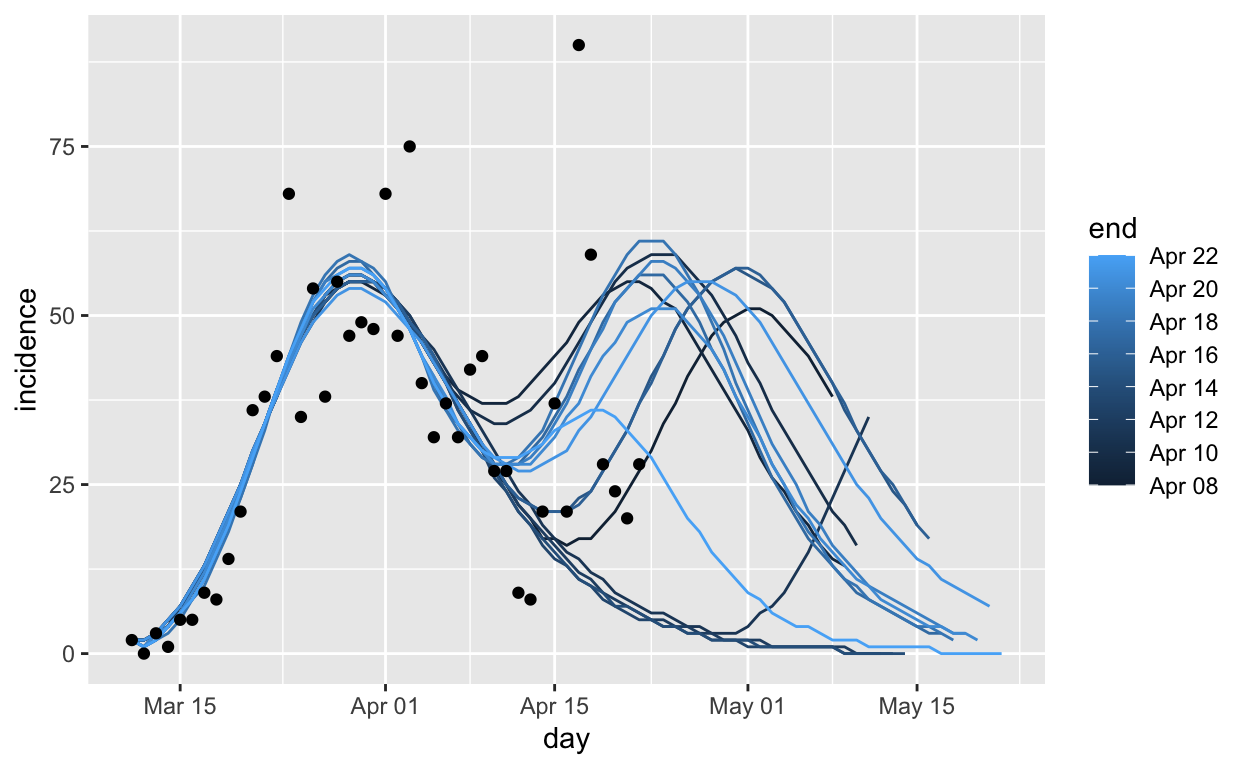
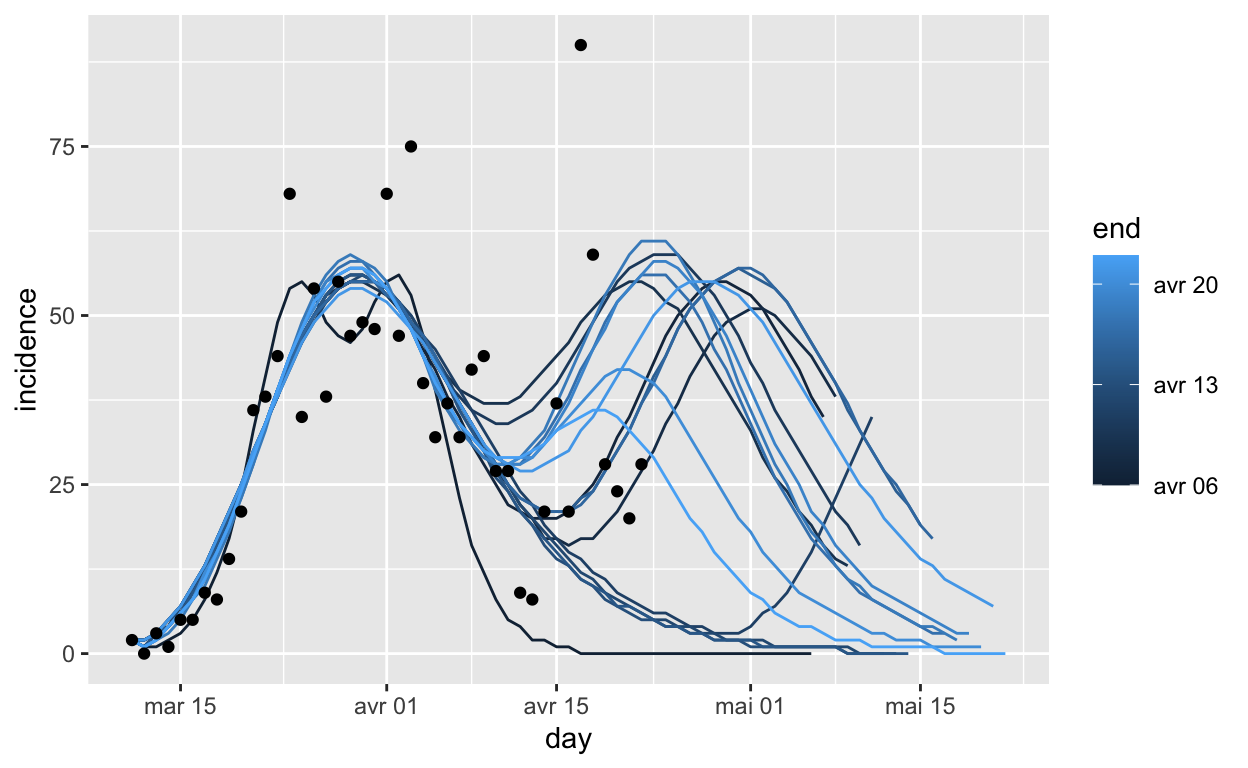
Add some optimisation tricks

diff --git a/docs/glme.html b/docs/glme.html
@@ -1303,7 +1303,7 @@
 <div class="layout-chunk" data-layout="l-body">
 
 </div>
-<p>Atnaujinta: 2020-04-23 08:36:18.</p>
+<p>Atnaujinta: 2020-04-23 09:15:55.</p>
 <h1 id="duomenys-modeliavimui">Duomenys modeliavimui</h1>
 <div class="layout-chunk" data-layout="l-body">
 <div data-pagedtable="false">
@@ -1334,7 +1334,7 @@
 <div class="layout-chunk" data-layout="l-body">
 <div data-pagedtable="false">
 <script data-pagedtable-source type="application/json">
-{"columns":[{"label":["day"],"name":[1],"type":["date"],"align":["right"]},{"label":["2020-04-20"],"name":[2],"type":["int"],"align":["right"]},{"label":["2020-04-21"],"name":[3],"type":["int"],"align":["right"]},{"label":["2020-04-22"],"name":[4],"type":["int"],"align":["right"]},{"label":["historic"],"name":[5],"type":["int"],"align":["right"]}],"data":[{"1":"2020-03-11","2":"2","3":"2","4":"2","5":"2"},{"1":"2020-03-12","2":"1","3":"2","4":"1","5":"0"},{"1":"2020-03-13","2":"3","3":"3","4":"2","5":"3"},{"1":"2020-03-14","2":"4","3":"5","4":"4","5":"1"},{"1":"2020-03-15","2":"6","3":"7","4":"6","5":"5"},{"1":"2020-03-16","2":"9","3":"10","4":"8","5":"5"},{"1":"2020-03-17","2":"12","3":"13","4":"11","5":"9"},{"1":"2020-03-18","2":"16","3":"17","4":"15","5":"8"},{"1":"2020-03-19","2":"20","3":"21","4":"19","5":"14"},{"1":"2020-03-20","2":"24","3":"25","4":"24","5":"21"},{"1":"2020-03-21","2":"29","3":"30","4":"29","5":"36"},{"1":"2020-03-22","2":"34","3":"34","4":"34","5":"38"},{"1":"2020-03-23","2":"39","3":"38","4":"39","5":"44"},{"1":"2020-03-24","2":"43","3":"42","4":"44","5":"68"},{"1":"2020-03-25","2":"47","3":"46","4":"48","5":"35"},{"1":"2020-03-26","2":"51","3":"49","4":"52","5":"54"},{"1":"2020-03-27","2":"53","3":"51","4":"54","5":"38"},{"1":"2020-03-28","2":"55","3":"53","4":"56","5":"55"},{"1":"2020-03-29","2":"56","3":"54","4":"57","5":"47"},{"1":"2020-03-30","2":"56","3":"54","4":"57","5":"49"},{"1":"2020-03-31","2":"55","3":"53","4":"56","5":"48"},{"1":"2020-04-01","2":"53","3":"52","4":"54","5":"68"},{"1":"2020-04-02","2":"51","3":"50","4":"51","5":"47"},{"1":"2020-04-03","2":"48","3":"48","4":"48","5":"75"},{"1":"2020-04-04","2":"44","3":"46","4":"44","5":"40"},{"1":"2020-04-05","2":"41","3":"43","4":"40","5":"32"},{"1":"2020-04-06","2":"38","3":"40","4":"37","5":"37"},{"1":"2020-04-07","2":"34","3":"37","4":"34","5":"32"},{"1":"2020-04-08","2":"32","3":"34","4":"32","5":"42"},{"1":"2020-04-09","2":"30","3":"31","4":"30","5":"44"},{"1":"2020-04-10","2":"28","3":"29","4":"29","5":"27"},{"1":"2020-04-11","2":"28","3":"28","4":"29","5":"27"},{"1":"2020-04-12","2":"28","3":"27","4":"29","5":"9"},{"1":"2020-04-13","2":"28","3":"27","4":"30","5":"8"},{"1":"2020-04-14","2":"30","3":"28","4":"31","5":"21"},{"1":"2020-04-15","2":"32","3":"29","4":"33","5":"37"},{"1":"2020-04-16","2":"35","3":"30","4":"34","5":"21"},{"1":"2020-04-17","2":"37","3":"33","4":"35","5":"90"},{"1":"2020-04-18","2":"41","3":"35","4":"36","5":"59"},{"1":"2020-04-19","2":"44","3":"38","4":"36","5":"28"},{"1":"2020-04-20","2":"46","3":"41","4":"35","5":"24"},{"1":"2020-04-21","2":"49","3":"44","4":"33","5":"20"},{"1":"2020-04-22","2":"50","3":"47","4":"31","5":"28"},{"1":"2020-04-23","2":"51","3":"50","4":"29","5":"NA"},{"1":"2020-04-24","2":"51","3":"52","4":"26","5":"NA"},{"1":"2020-04-25","2":"51","3":"54","4":"23","5":"NA"},{"1":"2020-04-26","2":"49","3":"55","4":"20","5":"NA"},{"1":"2020-04-27","2":"47","3":"55","4":"18","5":"NA"},{"1":"2020-04-28","2":"45","3":"55","4":"15","5":"NA"},{"1":"2020-04-29","2":"42","3":"54","4":"13","5":"NA"},{"1":"2020-04-30","2":"38","3":"53","4":"11","5":"NA"},{"1":"2020-05-01","2":"35","3":"51","4":"9","5":"NA"},{"1":"2020-05-02","2":"32","3":"49","4":"8","5":"NA"},{"1":"2020-05-03","2":"28","3":"46","4":"6","5":"NA"},{"1":"2020-05-04","2":"25","3":"43","4":"5","5":"NA"},{"1":"2020-05-05","2":"22","3":"40","4":"4","5":"NA"},{"1":"2020-05-06","2":"20","3":"37","4":"4","5":"NA"},{"1":"2020-05-07","2":"17","3":"34","4":"3","5":"NA"},{"1":"2020-05-08","2":"15","3":"31","4":"2","5":"NA"},{"1":"2020-05-09","2":"13","3":"28","4":"2","5":"NA"},{"1":"2020-05-10","2":"11","3":"25","4":"2","5":"NA"},{"1":"2020-05-11","2":"10","3":"23","4":"1","5":"NA"},{"1":"2020-05-12","2":"8","3":"20","4":"1","5":"NA"},{"1":"2020-05-13","2":"7","3":"18","4":"1","5":"NA"},{"1":"2020-05-14","2":"6","3":"16","4":"1","5":"NA"},{"1":"2020-05-15","2":"5","3":"14","4":"1","5":"NA"},{"1":"2020-05-16","2":"4","3":"13","4":"1","5":"NA"},{"1":"2020-05-17","2":"4","3":"11","4":"0","5":"NA"},{"1":"2020-05-18","2":"3","3":"10","4":"0","5":"NA"},{"1":"2020-05-19","2":"3","3":"9","4":"0","5":"NA"},{"1":"2020-05-20","2":"2","3":"8","4":"0","5":"NA"},{"1":"2020-05-21","2":"NA","3":"7","4":"0","5":"NA"},{"1":"2020-05-22","2":"NA","3":"NA","4":"0","5":"NA"}],"options":{"columns":{"min":{},"max":[10]},"rows":{"min":[10],"max":[10]},"pages":{}}}
+{"columns":[{"label":["day"],"name":[1],"type":["date"],"align":["right"]},{"label":["2020-04-20"],"name":[2],"type":["int"],"align":["right"]},{"label":["2020-04-21"],"name":[3],"type":["int"],"align":["right"]},{"label":["2020-04-22"],"name":[4],"type":["int"],"align":["right"]},{"label":["historic"],"name":[5],"type":["int"],"align":["right"]}],"data":[{"1":"2020-03-11","2":"2","3":"2","4":"2","5":"2"},{"1":"2020-03-12","2":"1","3":"2","4":"1","5":"0"},{"1":"2020-03-13","2":"2","3":"3","4":"2","5":"3"},{"1":"2020-03-14","2":"4","3":"5","4":"4","5":"1"},{"1":"2020-03-15","2":"6","3":"7","4":"6","5":"5"},{"1":"2020-03-16","2":"8","3":"10","4":"8","5":"5"},{"1":"2020-03-17","2":"12","3":"13","4":"11","5":"9"},{"1":"2020-03-18","2":"15","3":"17","4":"15","5":"8"},{"1":"2020-03-19","2":"19","3":"21","4":"19","5":"14"},{"1":"2020-03-20","2":"24","3":"25","4":"24","5":"21"},{"1":"2020-03-21","2":"29","3":"30","4":"29","5":"36"},{"1":"2020-03-22","2":"34","3":"34","4":"34","5":"38"},{"1":"2020-03-23","2":"39","3":"38","4":"39","5":"44"},{"1":"2020-03-24","2":"44","3":"42","4":"44","5":"68"},{"1":"2020-03-25","2":"48","3":"46","4":"48","5":"35"},{"1":"2020-03-26","2":"51","3":"49","4":"52","5":"54"},{"1":"2020-03-27","2":"54","3":"51","4":"54","5":"38"},{"1":"2020-03-28","2":"56","3":"53","4":"56","5":"55"},{"1":"2020-03-29","2":"57","3":"54","4":"57","5":"47"},{"1":"2020-03-30","2":"57","3":"54","4":"57","5":"49"},{"1":"2020-03-31","2":"55","3":"53","4":"56","5":"48"},{"1":"2020-04-01","2":"54","3":"52","4":"54","5":"68"},{"1":"2020-04-02","2":"51","3":"50","4":"51","5":"47"},{"1":"2020-04-03","2":"48","3":"48","4":"48","5":"75"},{"1":"2020-04-04","2":"44","3":"46","4":"44","5":"40"},{"1":"2020-04-05","2":"41","3":"43","4":"40","5":"32"},{"1":"2020-04-06","2":"37","3":"40","4":"37","5":"37"},{"1":"2020-04-07","2":"34","3":"37","4":"34","5":"32"},{"1":"2020-04-08","2":"32","3":"34","4":"32","5":"42"},{"1":"2020-04-09","2":"30","3":"31","4":"30","5":"44"},{"1":"2020-04-10","2":"29","3":"29","4":"29","5":"27"},{"1":"2020-04-11","2":"28","3":"28","4":"29","5":"27"},{"1":"2020-04-12","2":"29","3":"27","4":"29","5":"9"},{"1":"2020-04-13","2":"29","3":"27","4":"30","5":"8"},{"1":"2020-04-14","2":"31","3":"28","4":"31","5":"21"},{"1":"2020-04-15","2":"33","3":"29","4":"33","5":"37"},{"1":"2020-04-16","2":"35","3":"30","4":"34","5":"21"},{"1":"2020-04-17","2":"37","3":"33","4":"35","5":"90"},{"1":"2020-04-18","2":"39","3":"35","4":"36","5":"59"},{"1":"2020-04-19","2":"41","3":"38","4":"36","5":"28"},{"1":"2020-04-20","2":"42","3":"41","4":"35","5":"24"},{"1":"2020-04-21","2":"42","3":"44","4":"33","5":"20"},{"1":"2020-04-22","2":"41","3":"47","4":"31","5":"28"},{"1":"2020-04-23","2":"40","3":"50","4":"29","5":"NA"},{"1":"2020-04-24","2":"38","3":"52","4":"26","5":"NA"},{"1":"2020-04-25","2":"35","3":"54","4":"23","5":"NA"},{"1":"2020-04-26","2":"32","3":"55","4":"20","5":"NA"},{"1":"2020-04-27","2":"29","3":"55","4":"18","5":"NA"},{"1":"2020-04-28","2":"26","3":"55","4":"15","5":"NA"},{"1":"2020-04-29","2":"23","3":"54","4":"13","5":"NA"},{"1":"2020-04-30","2":"20","3":"53","4":"11","5":"NA"},{"1":"2020-05-01","2":"18","3":"51","4":"9","5":"NA"},{"1":"2020-05-02","2":"15","3":"49","4":"8","5":"NA"},{"1":"2020-05-03","2":"13","3":"46","4":"6","5":"NA"},{"1":"2020-05-04","2":"11","3":"43","4":"5","5":"NA"},{"1":"2020-05-05","2":"9","3":"40","4":"4","5":"NA"},{"1":"2020-05-06","2":"8","3":"37","4":"4","5":"NA"},{"1":"2020-05-07","2":"7","3":"34","4":"3","5":"NA"},{"1":"2020-05-08","2":"6","3":"31","4":"2","5":"NA"},{"1":"2020-05-09","2":"5","3":"28","4":"2","5":"NA"},{"1":"2020-05-10","2":"4","3":"25","4":"2","5":"NA"},{"1":"2020-05-11","2":"3","3":"23","4":"1","5":"NA"},{"1":"2020-05-12","2":"3","3":"20","4":"1","5":"NA"},{"1":"2020-05-13","2":"2","3":"18","4":"1","5":"NA"},{"1":"2020-05-14","2":"2","3":"16","4":"1","5":"NA"},{"1":"2020-05-15","2":"2","3":"14","4":"1","5":"NA"},{"1":"2020-05-16","2":"1","3":"13","4":"1","5":"NA"},{"1":"2020-05-17","2":"1","3":"11","4":"0","5":"NA"},{"1":"2020-05-18","2":"1","3":"10","4":"0","5":"NA"},{"1":"2020-05-19","2":"1","3":"9","4":"0","5":"NA"},{"1":"2020-05-20","2":"1","3":"8","4":"0","5":"NA"},{"1":"2020-05-21","2":"NA","3":"7","4":"0","5":"NA"},{"1":"2020-05-22","2":"NA","3":"NA","4":"0","5":"NA"}],"options":{"columns":{"min":{},"max":[10]},"rows":{"min":[10],"max":[10]},"pages":{}}}
   </script>
 </div>
 </div>
@@ -1342,7 +1342,7 @@
 <div class="layout-chunk" data-layout="l-body">
 <div data-pagedtable="false">
 <script data-pagedtable-source type="application/json">
-{"columns":[{"label":["day"],"name":[1],"type":["date"],"align":["right"]},{"label":["2020-04-20"],"name":[2],"type":["int"],"align":["right"]},{"label":["2020-04-21"],"name":[3],"type":["int"],"align":["right"]},{"label":["2020-04-22"],"name":[4],"type":["int"],"align":["right"]},{"label":["historic"],"name":[5],"type":["int"],"align":["right"]}],"data":[{"1":"2020-03-11","2":"3","3":"3","4":"3","5":"3"},{"1":"2020-03-12","2":"4","3":"5","4":"4","5":"3"},{"1":"2020-03-13","2":"7","3":"8","4":"6","5":"6"},{"1":"2020-03-14","2":"11","3":"13","4":"10","5":"7"},{"1":"2020-03-15","2":"17","3":"20","4":"16","5":"12"},{"1":"2020-03-16","2":"26","3":"30","4":"24","5":"17"},{"1":"2020-03-17","2":"38","3":"43","4":"35","5":"26"},{"1":"2020-03-18","2":"54","3":"60","4":"50","5":"34"},{"1":"2020-03-19","2":"74","3":"81","4":"69","5":"48"},{"1":"2020-03-20","2":"98","3":"106","4":"93","5":"69"},{"1":"2020-03-21","2":"127","3":"136","4":"122","5":"105"},{"1":"2020-03-22","2":"161","3":"170","4":"156","5":"143"},{"1":"2020-03-23","2":"200","3":"208","4":"195","5":"187"},{"1":"2020-03-24","2":"243","3":"250","4":"239","5":"255"},{"1":"2020-03-25","2":"290","3":"296","4":"287","5":"290"},{"1":"2020-03-26","2":"341","3":"345","4":"339","5":"344"},{"1":"2020-03-27","2":"394","3":"396","4":"393","5":"382"},{"1":"2020-03-28","2":"449","3":"449","4":"449","5":"437"},{"1":"2020-03-29","2":"505","3":"503","4":"506","5":"484"},{"1":"2020-03-30","2":"561","3":"557","4":"563","5":"533"},{"1":"2020-03-31","2":"616","3":"610","4":"619","5":"581"},{"1":"2020-04-01","2":"669","3":"662","4":"673","5":"649"},{"1":"2020-04-02","2":"720","3":"712","4":"724","5":"696"},{"1":"2020-04-03","2":"768","3":"760","4":"772","5":"771"},{"1":"2020-04-04","2":"812","3":"806","4":"816","5":"811"},{"1":"2020-04-05","2":"853","3":"849","4":"856","5":"843"},{"1":"2020-04-06","2":"891","3":"889","4":"893","5":"880"},{"1":"2020-04-07","2":"925","3":"926","4":"927","5":"912"},{"1":"2020-04-08","2":"957","3":"960","4":"959","5":"954"},{"1":"2020-04-09","2":"987","3":"991","4":"989","5":"998"},{"1":"2020-04-10","2":"1015","3":"1020","4":"1018","5":"1025"},{"1":"2020-04-11","2":"1043","3":"1048","4":"1047","5":"1052"},{"1":"2020-04-12","2":"1071","3":"1075","4":"1076","5":"1061"},{"1":"2020-04-13","2":"1099","3":"1102","4":"1106","5":"1069"},{"1":"2020-04-14","2":"1129","3":"1130","4":"1137","5":"1090"},{"1":"2020-04-15","2":"1161","3":"1159","4":"1170","5":"1127"},{"1":"2020-04-16","2":"1196","3":"1189","4":"1204","5":"1148"},{"1":"2020-04-17","2":"1233","3":"1222","4":"1239","5":"1238"},{"1":"2020-04-18","2":"1274","3":"1257","4":"1275","5":"1297"},{"1":"2020-04-19","2":"1318","3":"1295","4":"1311","5":"1325"},{"1":"2020-04-20","2":"1364","3":"1336","4":"1346","5":"1349"},{"1":"2020-04-21","2":"1413","3":"1380","4":"1379","5":"1369"},{"1":"2020-04-22","2":"1463","3":"1427","4":"1410","5":"1397"},{"1":"2020-04-23","2":"1514","3":"1477","4":"1439","5":"NA"},{"1":"2020-04-24","2":"1565","3":"1529","4":"1465","5":"NA"},{"1":"2020-04-25","2":"1616","3":"1583","4":"1488","5":"NA"},{"1":"2020-04-26","2":"1665","3":"1638","4":"1508","5":"NA"},{"1":"2020-04-27","2":"1712","3":"1693","4":"1526","5":"NA"},{"1":"2020-04-28","2":"1757","3":"1748","4":"1541","5":"NA"},{"1":"2020-04-29","2":"1799","3":"1802","4":"1554","5":"NA"},{"1":"2020-04-30","2":"1837","3":"1855","4":"1565","5":"NA"},{"1":"2020-05-01","2":"1872","3":"1906","4":"1574","5":"NA"},{"1":"2020-05-02","2":"1904","3":"1955","4":"1582","5":"NA"},{"1":"2020-05-03","2":"1932","3":"2001","4":"1588","5":"NA"},{"1":"2020-05-04","2":"1957","3":"2044","4":"1593","5":"NA"},{"1":"2020-05-05","2":"1979","3":"2084","4":"1597","5":"NA"},{"1":"2020-05-06","2":"1999","3":"2121","4":"1601","5":"NA"},{"1":"2020-05-07","2":"2016","3":"2155","4":"1604","5":"NA"},{"1":"2020-05-08","2":"2031","3":"2186","4":"1606","5":"NA"},{"1":"2020-05-09","2":"2044","3":"2214","4":"1608","5":"NA"},{"1":"2020-05-10","2":"2055","3":"2239","4":"1610","5":"NA"},{"1":"2020-05-11","2":"2065","3":"2262","4":"1611","5":"NA"},{"1":"2020-05-12","2":"2073","3":"2282","4":"1612","5":"NA"},{"1":"2020-05-13","2":"2080","3":"2300","4":"1613","5":"NA"},{"1":"2020-05-14","2":"2086","3":"2316","4":"1614","5":"NA"},{"1":"2020-05-15","2":"2091","3":"2330","4":"1615","5":"NA"},{"1":"2020-05-16","2":"2095","3":"2343","4":"1616","5":"NA"},{"1":"2020-05-17","2":"2099","3":"2354","4":"1616","5":"NA"},{"1":"2020-05-18","2":"2102","3":"2364","4":"1616","5":"NA"},{"1":"2020-05-19","2":"2105","3":"2373","4":"1616","5":"NA"},{"1":"2020-05-20","2":"2107","3":"2381","4":"1616","5":"NA"},{"1":"2020-05-21","2":"NA","3":"2388","4":"1616","5":"NA"},{"1":"2020-05-22","2":"NA","3":"NA","4":"1616","5":"NA"}],"options":{"columns":{"min":{},"max":[10]},"rows":{"min":[10],"max":[10]},"pages":{}}}
+{"columns":[{"label":["day"],"name":[1],"type":["date"],"align":["right"]},{"label":["2020-04-20"],"name":[2],"type":["int"],"align":["right"]},{"label":["2020-04-21"],"name":[3],"type":["int"],"align":["right"]},{"label":["2020-04-22"],"name":[4],"type":["int"],"align":["right"]},{"label":["historic"],"name":[5],"type":["int"],"align":["right"]}],"data":[{"1":"2020-03-11","2":"3","3":"3","4":"3","5":"3"},{"1":"2020-03-12","2":"4","3":"5","4":"4","5":"3"},{"1":"2020-03-13","2":"6","3":"8","4":"6","5":"6"},{"1":"2020-03-14","2":"10","3":"13","4":"10","5":"7"},{"1":"2020-03-15","2":"16","3":"20","4":"16","5":"12"},{"1":"2020-03-16","2":"24","3":"30","4":"24","5":"17"},{"1":"2020-03-17","2":"36","3":"43","4":"35","5":"26"},{"1":"2020-03-18","2":"51","3":"60","4":"50","5":"34"},{"1":"2020-03-19","2":"70","3":"81","4":"69","5":"48"},{"1":"2020-03-20","2":"94","3":"106","4":"93","5":"69"},{"1":"2020-03-21","2":"123","3":"136","4":"122","5":"105"},{"1":"2020-03-22","2":"157","3":"170","4":"156","5":"143"},{"1":"2020-03-23","2":"196","3":"208","4":"195","5":"187"},{"1":"2020-03-24","2":"240","3":"250","4":"239","5":"255"},{"1":"2020-03-25","2":"288","3":"296","4":"287","5":"290"},{"1":"2020-03-26","2":"339","3":"345","4":"339","5":"344"},{"1":"2020-03-27","2":"393","3":"396","4":"393","5":"382"},{"1":"2020-03-28","2":"449","3":"449","4":"449","5":"437"},{"1":"2020-03-29","2":"506","3":"503","4":"506","5":"484"},{"1":"2020-03-30","2":"563","3":"557","4":"563","5":"533"},{"1":"2020-03-31","2":"618","3":"610","4":"619","5":"581"},{"1":"2020-04-01","2":"672","3":"662","4":"673","5":"649"},{"1":"2020-04-02","2":"723","3":"712","4":"724","5":"696"},{"1":"2020-04-03","2":"771","3":"760","4":"772","5":"771"},{"1":"2020-04-04","2":"815","3":"806","4":"816","5":"811"},{"1":"2020-04-05","2":"856","3":"849","4":"856","5":"843"},{"1":"2020-04-06","2":"893","3":"889","4":"893","5":"880"},{"1":"2020-04-07","2":"927","3":"926","4":"927","5":"912"},{"1":"2020-04-08","2":"959","3":"960","4":"959","5":"954"},{"1":"2020-04-09","2":"989","3":"991","4":"989","5":"998"},{"1":"2020-04-10","2":"1018","3":"1020","4":"1018","5":"1025"},{"1":"2020-04-11","2":"1046","3":"1048","4":"1047","5":"1052"},{"1":"2020-04-12","2":"1075","3":"1075","4":"1076","5":"1061"},{"1":"2020-04-13","2":"1104","3":"1102","4":"1106","5":"1069"},{"1":"2020-04-14","2":"1135","3":"1130","4":"1137","5":"1090"},{"1":"2020-04-15","2":"1168","3":"1159","4":"1170","5":"1127"},{"1":"2020-04-16","2":"1203","3":"1189","4":"1204","5":"1148"},{"1":"2020-04-17","2":"1240","3":"1222","4":"1239","5":"1238"},{"1":"2020-04-18","2":"1279","3":"1257","4":"1275","5":"1297"},{"1":"2020-04-19","2":"1320","3":"1295","4":"1311","5":"1325"},{"1":"2020-04-20","2":"1362","3":"1336","4":"1346","5":"1349"},{"1":"2020-04-21","2":"1404","3":"1380","4":"1379","5":"1369"},{"1":"2020-04-22","2":"1445","3":"1427","4":"1410","5":"1397"},{"1":"2020-04-23","2":"1485","3":"1477","4":"1439","5":"NA"},{"1":"2020-04-24","2":"1523","3":"1529","4":"1465","5":"NA"},{"1":"2020-04-25","2":"1558","3":"1583","4":"1488","5":"NA"},{"1":"2020-04-26","2":"1590","3":"1638","4":"1508","5":"NA"},{"1":"2020-04-27","2":"1619","3":"1693","4":"1526","5":"NA"},{"1":"2020-04-28","2":"1645","3":"1748","4":"1541","5":"NA"},{"1":"2020-04-29","2":"1668","3":"1802","4":"1554","5":"NA"},{"1":"2020-04-30","2":"1688","3":"1855","4":"1565","5":"NA"},{"1":"2020-05-01","2":"1706","3":"1906","4":"1574","5":"NA"},{"1":"2020-05-02","2":"1721","3":"1955","4":"1582","5":"NA"},{"1":"2020-05-03","2":"1734","3":"2001","4":"1588","5":"NA"},{"1":"2020-05-04","2":"1745","3":"2044","4":"1593","5":"NA"},{"1":"2020-05-05","2":"1754","3":"2084","4":"1597","5":"NA"},{"1":"2020-05-06","2":"1762","3":"2121","4":"1601","5":"NA"},{"1":"2020-05-07","2":"1769","3":"2155","4":"1604","5":"NA"},{"1":"2020-05-08","2":"1775","3":"2186","4":"1606","5":"NA"},{"1":"2020-05-09","2":"1780","3":"2214","4":"1608","5":"NA"},{"1":"2020-05-10","2":"1784","3":"2239","4":"1610","5":"NA"},{"1":"2020-05-11","2":"1787","3":"2262","4":"1611","5":"NA"},{"1":"2020-05-12","2":"1790","3":"2282","4":"1612","5":"NA"},{"1":"2020-05-13","2":"1792","3":"2300","4":"1613","5":"NA"},{"1":"2020-05-14","2":"1794","3":"2316","4":"1614","5":"NA"},{"1":"2020-05-15","2":"1796","3":"2330","4":"1615","5":"NA"},{"1":"2020-05-16","2":"1797","3":"2343","4":"1616","5":"NA"},{"1":"2020-05-17","2":"1798","3":"2354","4":"1616","5":"NA"},{"1":"2020-05-18","2":"1799","3":"2364","4":"1616","5":"NA"},{"1":"2020-05-19","2":"1800","3":"2373","4":"1616","5":"NA"},{"1":"2020-05-20","2":"1801","3":"2381","4":"1616","5":"NA"},{"1":"2020-05-21","2":"NA","3":"2388","4":"1616","5":"NA"},{"1":"2020-05-22","2":"NA","3":"NA","4":"1616","5":"NA"}],"options":{"columns":{"min":{},"max":[10]},"rows":{"min":[10],"max":[10]},"pages":{}}}
   </script>
 </div>
 </div>
@@ -1351,7 +1351,7 @@
 <div class="layout-chunk" data-layout="l-body">
 <div data-pagedtable="false">
 <script data-pagedtable-source type="application/json">
-{"columns":[{"label":["end"],"name":[1],"type":["date"],"align":["right"]},{"label":["n"],"name":[2],"type":["int"],"align":["right"]},{"label":["r"],"name":[3],"type":["dbl"],"align":["right"]},{"label":["p"],"name":[4],"type":["dbl"],"align":["right"]},{"label":["K"],"name":[5],"type":["dbl"],"align":["right"]},{"label":["q"],"name":[6],"type":["dbl"],"align":["right"]},{"label":["Ct"],"name":[7],"type":["dbl"],"align":["right"]}],"data":[{"1":"2020-04-22","2":"2","3":"0.95","4":"0.75","5":"1141","6":"0.87","7":"875"}],"options":{"columns":{"min":{},"max":[10]},"rows":{"min":[10],"max":[10]},"pages":{}}}
+{"columns":[{"label":["end"],"name":[1],"type":["date"],"align":["right"]},{"label":["n"],"name":[2],"type":["int"],"align":["right"]},{"label":["r"],"name":[3],"type":["dbl"],"align":["right"]},{"label":["p"],"name":[4],"type":["dbl"],"align":["right"]},{"label":["K"],"name":[5],"type":["dbl"],"align":["right"]},{"label":["q"],"name":[6],"type":["dbl"],"align":["right"]},{"label":["Ct"],"name":[7],"type":["dbl"],"align":["right"]}],"data":[{"1":"2020-04-19","2":"2","3":"0.95","4":"0.75","5":"1146","6":"0.05","7":"898"},{"1":"2020-04-20","2":"2","3":"0.97","4":"0.75","5":"1151","6":"0.57","7":"896"},{"1":"2020-04-21","2":"2","3":"1.16","4":"0.70","5":"1250","6":"0.05","7":"1004"},{"1":"2020-04-22","2":"2","3":"0.95","4":"0.75","5":"1141","6":"0.87","7":"875"}],"options":{"columns":{"min":{},"max":[10]},"rows":{"min":[10],"max":[10]},"pages":{}}}
   </script>
 </div>
 </div>
